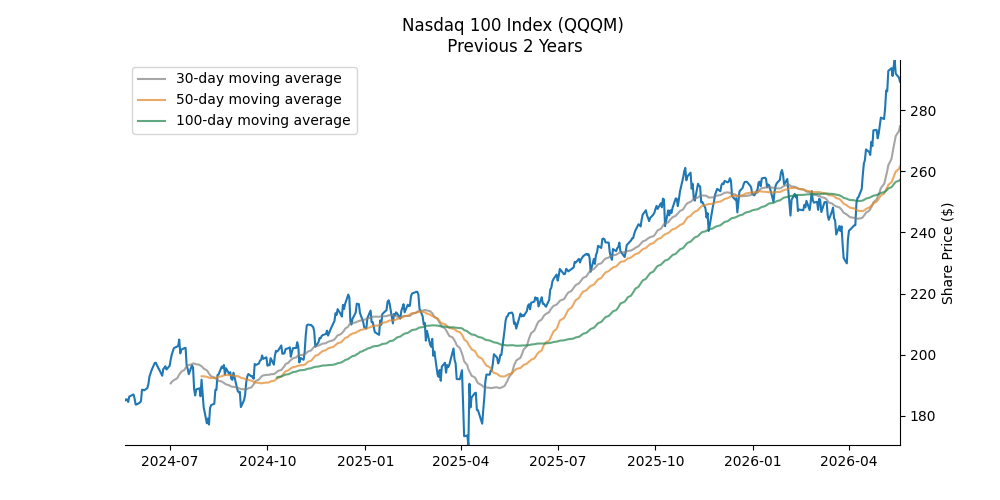
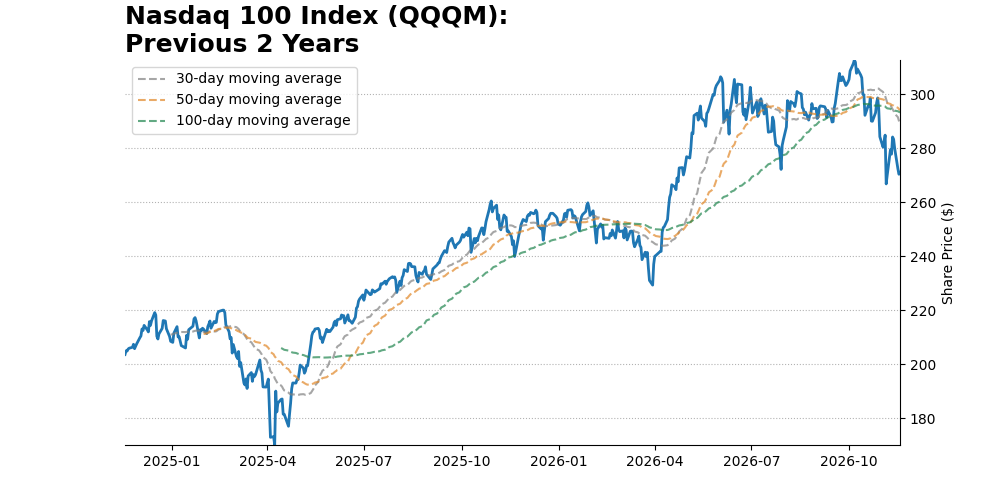
gallery updates

diff --git a/gallery/index.html b/gallery/index.html
@@ -98,7 +98,7 @@
         <div class='row d-flex align-items-center justify-content-center text-center h-100 py-2'>
           <div class="col-lg-4 col-md-12 mb-4">
             <a href="#" class="pop" data-bs-toggle="modal" data-bs-target="#imageModal">
-              <img src="../images/dataviz/qqqm.png" class="img-fluid zoom-img img-thumbnail shadow">
+              <img src="../images/dataviz/ret_decidedness.png" class="img-fluid zoom-img img-thumbnail shadow">
             </a>
           </div>
           <div class="col-lg-4 col-md-12 mb-4">
